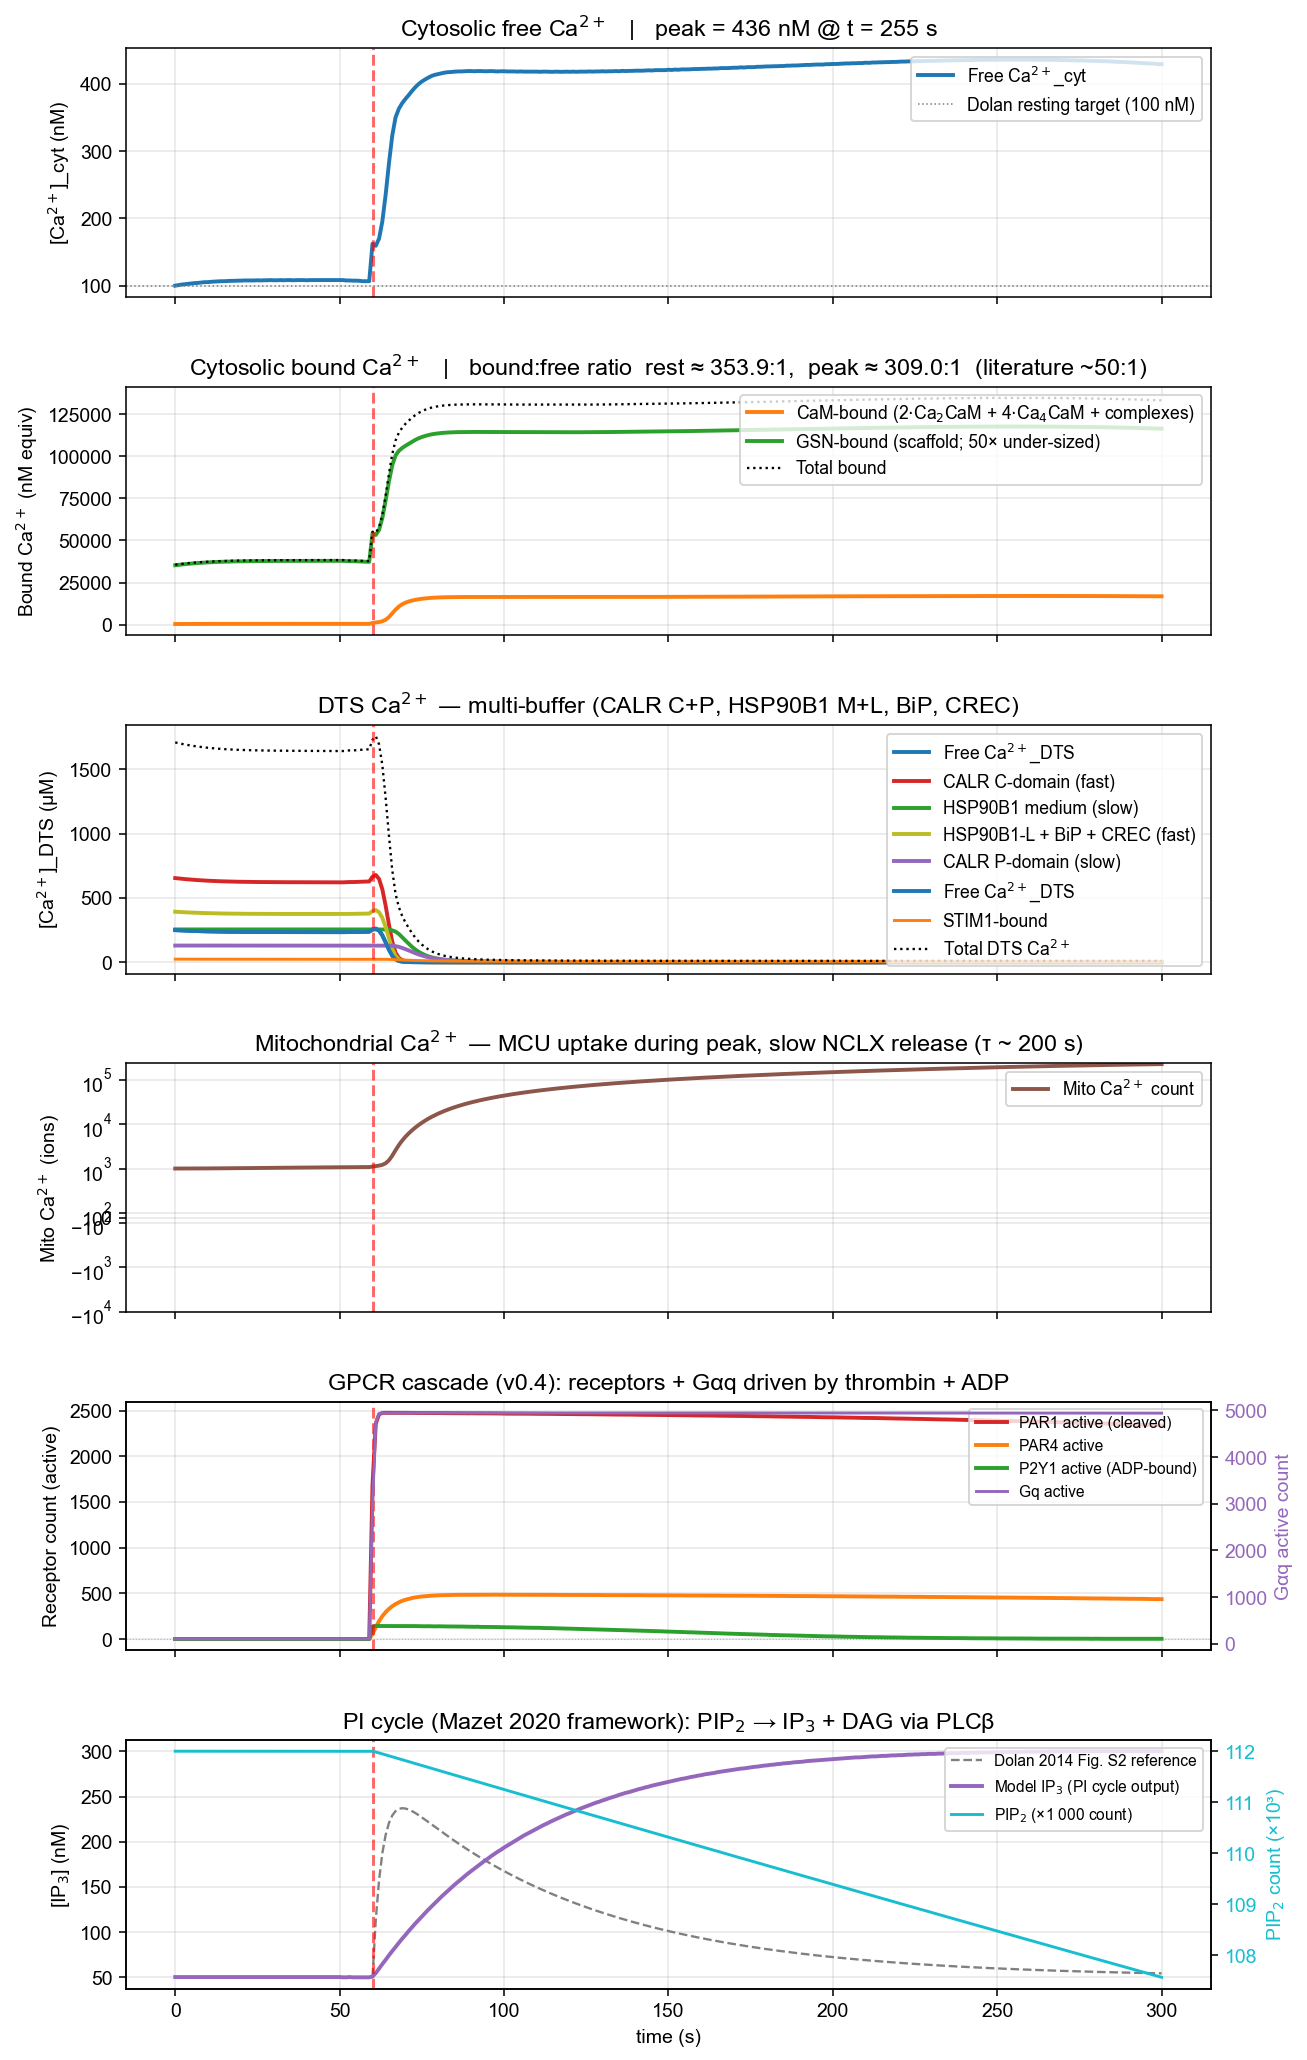
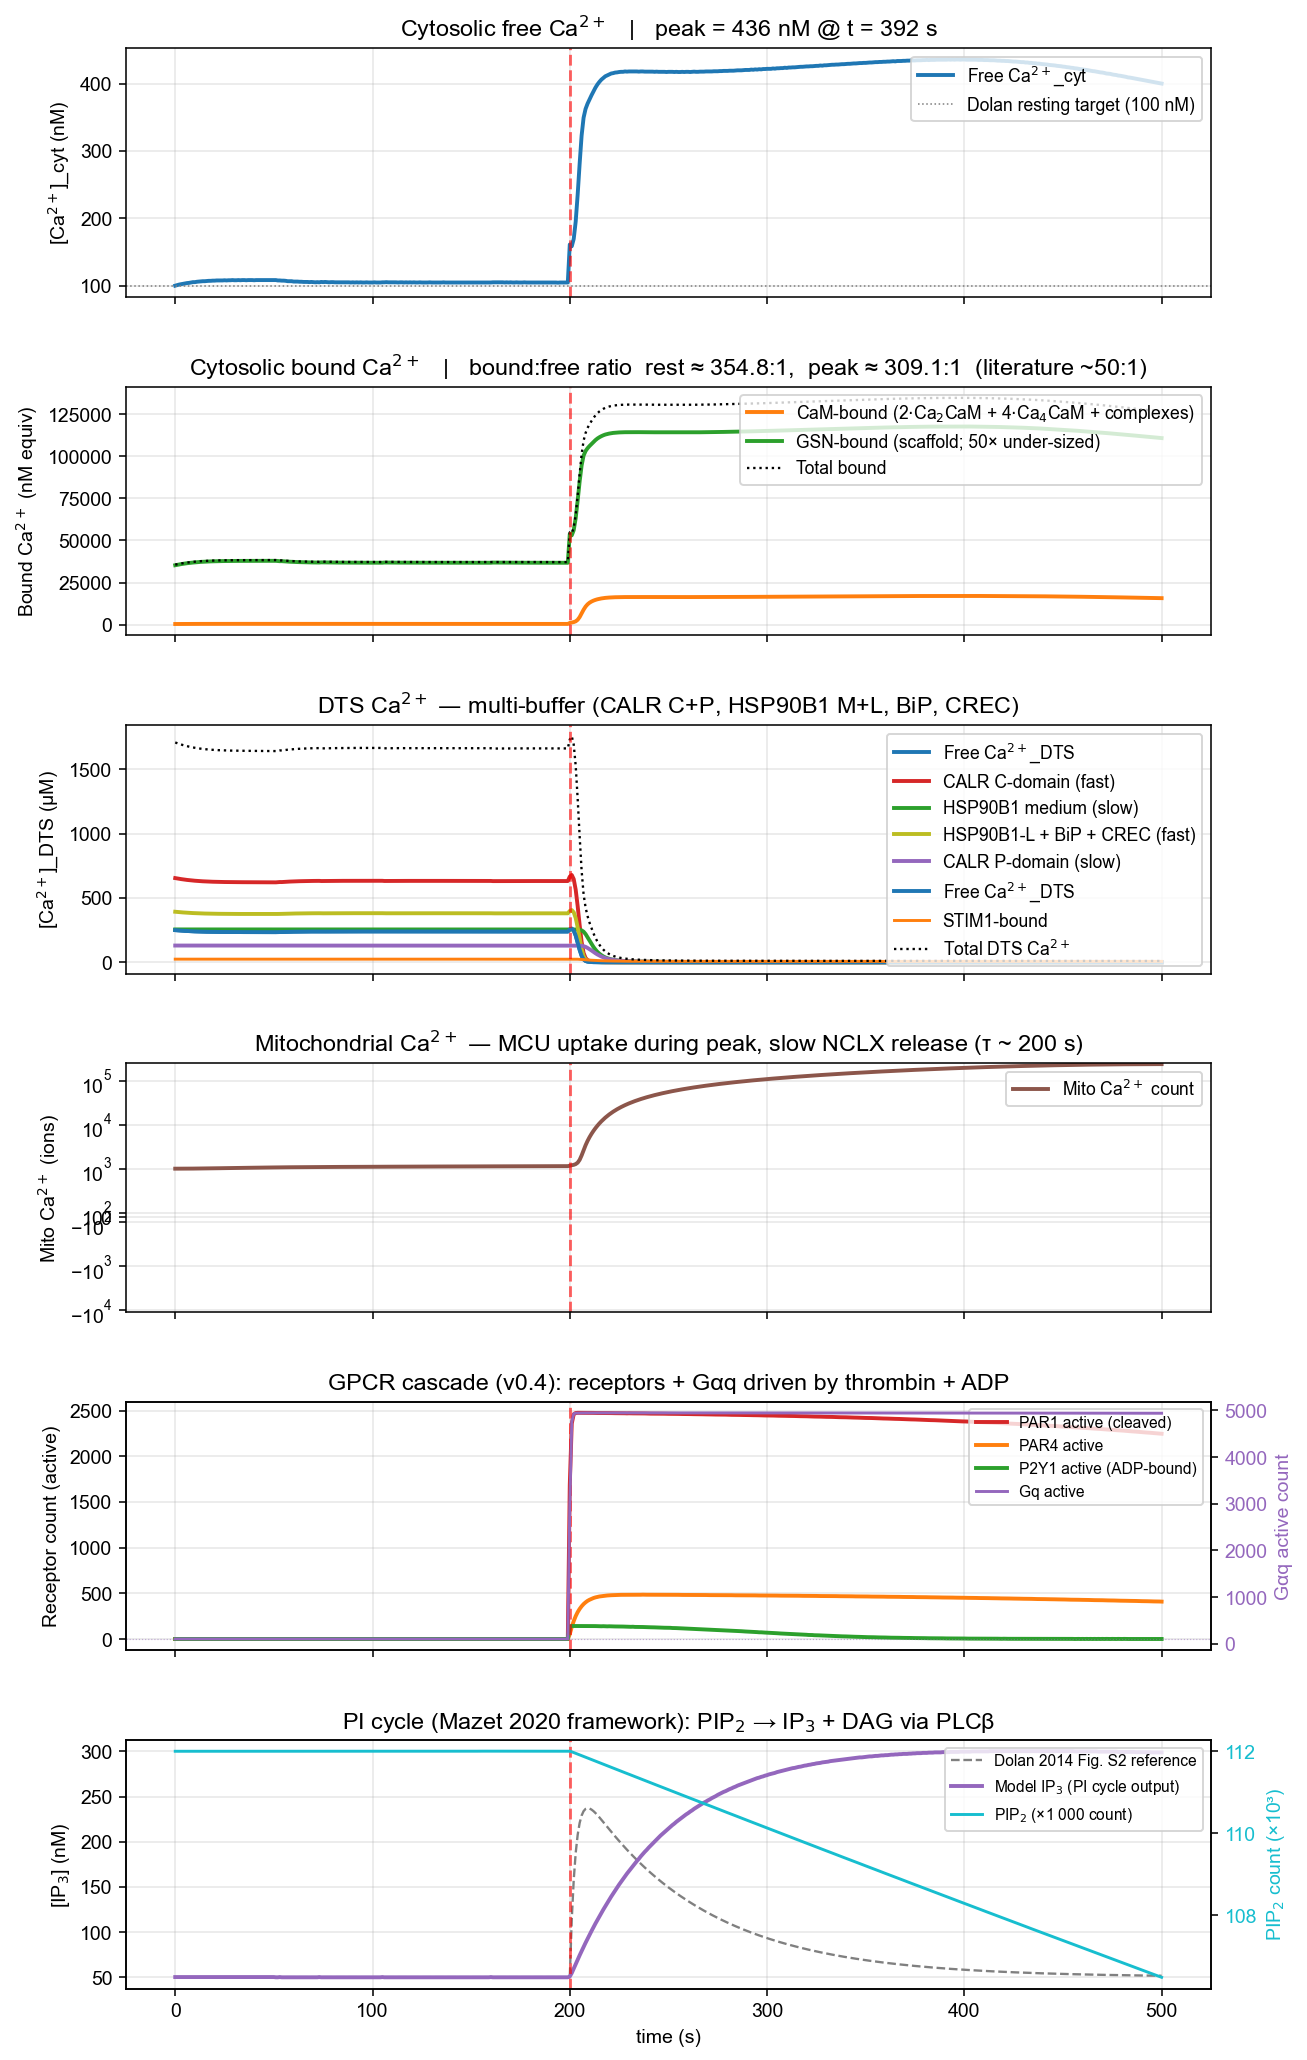
Plots: fix PMCA legend unicode + extend pre-stim equilibration to 200s
Two refinements after first-look review:

1. PMCA stackplot legend used Unicode super/subscripts ('Ca²⁺',
   'Ca₄·CaM·PMCA', etc.) which matplotlib's default font doesn't
   ship. Switched to mathtext: 'Ca$^{2+}$', 'Ca$_4$\\cdot$CaM$\\cdot$PMCA',
   etc. — renders correctly without font dependency.

2. Pre-stim equilibration extended from 60s → 200s. The model needs
   ~150s to fully reach its steady-state after initial conditions are
   loaded; the 60s window left cyt at ~106 nM (2.6% off the true
   104 nM equilibrium). 200s pre-stim now shows cyt at 104.6 nM —
   essentially at steady state.

Both diagnostic plots regenerated against 200s-pre-stim runs.

diff --git a/runscripts/manual/plotLongRecovery.py b/runscripts/manual/plotLongRecovery.py
@@ -109,9 +109,11 @@ def main():
 	# Panel 5: PMCA state distribution
 	axes[4].stackplot(t,
 		pmca_free, pmca_ca, cam_pmca, cam_pmca_ca, pmca_cam,
-		labels=['PMCA free', 'PMCA·Ca²⁺ (basal active)',
-				'Ca₄·CaM·PMCA', 'Ca₄·CaM·PMCA·Ca²⁺ (pumping)',
-				'PMCA·CaM (trap)'],
+		labels=['PMCA free',
+				r'PMCA$\cdot$Ca$^{2+}$ (basal active)',
+				r'Ca$_4\cdot$CaM$\cdot$PMCA',
+				r'Ca$_4\cdot$CaM$\cdot$PMCA$\cdot$Ca$^{2+}$ (pumping)',
+				r'PMCA$\cdot$CaM (trap)'],
 		colors=['tab:green', 'tab:olive', 'tab:cyan', 'tab:orange', 'tab:red'],
 		alpha=0.8)
 	axes[4].axvline(args.stim_onset, **stim_kwargs)